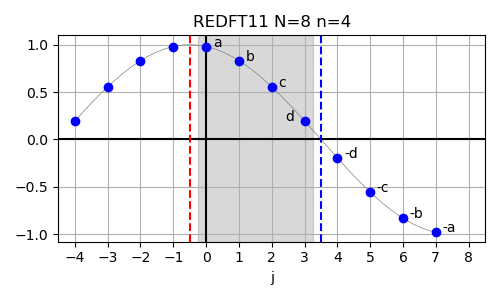
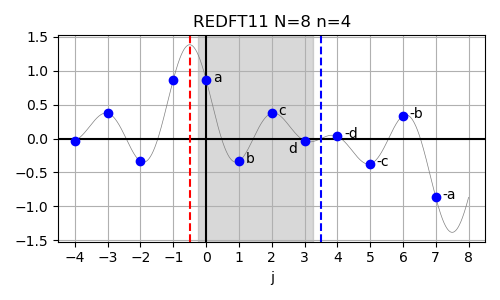
REDFTxx example plots refined

diff --git a/img/plot_1d_redft_examples.py b/img/plot_1d_redft_examples.py
@@ -41,6 +41,15 @@ def redft01(arr):
             out[k] += 2.0 * arr[j] * np.cos(np.pi*j*(k+0.5)/n)
     return out
 
+# compute the REDFT11 as defined in the FFTW reference manual
+def redft11(arr):
+    n = len(arr)
+    out = np.zeros([n])
+    for k in range(n):
+        for j in range(n):
+            out[k] += 2.0 * arr[j] * np.cos(np.pi*(j+0.5)*(k+0.5)/n)
+    return out
+
 # evaluate the REDFT00 at all points given in x
 def eval_redft00(arr, x):
     n = len(arr)
@@ -68,6 +77,14 @@ def eval_redft01(arr, x):
         y += 2.0*arr[j]*np.cos(np.pi*j*(x+0.5/n))
     return y
 
+# evaluate the REDFT11 at all points given in x
+def eval_redft11(arr, x):
+    n = len(arr)
+    y = np.zeros_like(x)
+    for j in range(n):
+        y += 2.0*arr[j]*np.cos(np.pi*(j+0.5)*(x+0.5/n))
+    return y
+
 #%% REDFT00 
 
 # input size for REDFT00
@@ -83,7 +100,14 @@ r2r_out = rng.uniform(size=n)
 # compute input of REDFT00 by REDFT00 (the inverse of REDFT00)
 r2r_in = redft00(r2r_out)/n
 
-# extend to equivalent DFT size
+# extend to left for highlighting symmetry at start of array
+left_in_x = np.arange(-n, 0)
+left_in_y = np.zeros([n])
+for i in range(n):
+    # even symmetry around 0
+    left_in_y[i] = r2r_in[-i]
+
+# extend to equivalent DFT size to highlight symmetry at end of array
 full_in_x = np.arange(n, N)
 full_in_y = np.zeros([N-n])
 for i in range(N-n):
@@ -115,6 +139,8 @@ plt.plot(r2r_in, 'bo')
 for i in range(n):
     plt.text(i+0.2, r2r_in[i]-0.03, chr(ord("a")+i))
 
+plt.plot(left_in_x, left_in_y, 'bo')
+
 # plot data extending REDFT00 to full DFT
 plt.plot(full_in_x, full_in_y, 'bo')
 
@@ -144,7 +170,14 @@ r2r_out = rng.uniform(size=n)
 # compute input of REDFT10 by using REDFT01 (the inverse of REDFT10)
 r2r_in = redft01(r2r_out)/n
 
-# extend to equivalent DFT size
+# extend to left for highlighting symmetry at start of array
+left_in_x = np.arange(-n, 0)
+left_in_y = np.zeros([n])
+for i in range(n):
+    # even symmetry around -0.5
+    left_in_y[i] = r2r_in[-i-1]
+
+# extend to equivalent DFT size for highlighting symmetry at end of array
 full_in_x = np.arange(n, N)
 full_in_y = np.zeros([N-n])
 for i in range(N-n):
@@ -177,6 +210,8 @@ for i in range(n-1):
     plt.text(i+0.2, r2r_in[i]-0.03, chr(ord("a")+i))
 plt.text(n-1-0.6, r2r_in[n-1]-0.03, chr(ord("a")+n-1))
 
+plt.plot(left_in_x, left_in_y, 'bo')
+
 plt.plot(full_in_x, full_in_y, 'bo')
 
 for i in range(n):
@@ -193,68 +228,148 @@ plt.tight_layout()
 plt.savefig("redft10.png")
 
 #%% REDFT01
+n = 4
 
-# plt.figure(figsize=(5,3))
-# plt.plot(t_ref*N, y_ref_2, '-', color='gray', linewidth=0.5)
-# plt.axhline(0, ls='-', color='k')
-# plt.axvline(0, ls='-', color='k')
+# logical size of equivalent DFT (for REDFT01)
+N = 2*n
 
-# # symmetry lines
-# plt.axvline(0, ls='--', color='r')
-# plt.axvline(n, ls='--', color='b')
+# random Fourier coefficients
+rng = default_rng(seed=41)
+r2r_out = rng.uniform(size=n)
 
-# # highlight array contents
-# plt.axvspan(0-0.25, (n-1)+0.25, alpha=0.3, color='gray')
+# compute input of REDFT01 by using REDFT10 (the inverse of REDFT01)
+r2r_in = redft10(r2r_out)/n
 
-# plt.plot(t, y2, 'bo')
+# extend to left for highlighting symmetry at start of array
+left_in_x = np.arange(-n, 0)
+left_in_y = np.zeros([n])
+for i in range(1,n):
+    # even symmetry around 0
+    left_in_y[-i] = r2r_in[i]
 
-# for i in range(N):
-#     if i>n:
-#         plt.text(t[int(i+N/2)]+0.2, y2[int(i+N/2)], "-"+chr(ord("a")+(N-i)))
-#     elif i<n:
-#         plt.text(t[int(i+N/2)]+0.2, y2[int(i+N/2)], chr(ord("a")+i))
+# extend to equivalent DFT size for highlighting symmetry at end of array
+full_in_x = np.arange(n, N)
+full_in_y = np.zeros([N-n])
+for i in range(1,N-n):
+    # odd symmetry around n
+    full_in_y[i] = -r2r_in[-i]
 
-# # only integer xaxis ticks
-# plt.gca().xaxis.set_major_locator(MaxNLocator(steps=(1,10), integer=True))
-# plt.xlim((-4.5, 8.5))
+# sample "inputs" at finer intervals
+nFine = 1024
+x = np.linspace(-n, N, nFine)
+y = eval_redft10(r2r_out, x/n)/n
 
-# plt.grid(True)
-# plt.xlabel("j")
-# plt.title("REDFT01 N=%d n=%d"%(N, n))
-# plt.tight_layout()
-# plt.savefig("redft01.png")
+plt.figure(figsize=(5,3))
+
+plt.plot(x, y, '-', color='gray', linewidth=0.5)
+
+plt.axhline(0, ls='-', color='k')
+plt.axvline(0, ls='-', color='k')
+
+# symmetry lines
+plt.axvline(0, ls='--', color='r')
+plt.axvline(n, ls='--', color='b')
+
+# highlight array contents
+plt.axvspan(0-0.25, (n-1)+0.25, alpha=0.3, color='gray')
+
+plt.plot(r2r_in, 'bo')
+
+# label individual points
+i=0
+plt.text(i+0.2, r2r_in[i]-0.03, chr(ord("a")+i))
+for i in range(1,n):
+    plt.text(i-0.5, r2r_in[i]-0.03, chr(ord("a")+i))
+
+plt.plot(left_in_x, left_in_y, 'bo')
+
+plt.plot(full_in_x, full_in_y, 'bo')
+
+plt.text(full_in_x[0]+0.2, full_in_y[0]+0.04, "0")
+for i in range(1,n):
+    plt.text(full_in_x[i]+0.2, full_in_y[i]-0.03, "-"+chr(ord("a")+(n-i)))
+
+# only integer xaxis ticks
+plt.gca().xaxis.set_major_locator(MaxNLocator(steps=(1,10), integer=True))
+plt.xlim((-4.5, 8.5))
+
+plt.grid(True)
+plt.xlabel("j")
+plt.title("REDFT01 N=%d n=%d"%(N, n))
+plt.tight_layout()
+plt.savefig("redft01.png")
 
 
 #%% REDFT11
 
-# plt.figure(figsize=(5,3))
-# plt.plot(t_ref[int(n_ref/N/2):-int(n_ref/N/2)]*N-0.5, y_ref_2[int(n_ref/N/2):-int(n_ref/N/2)], '-', color='gray', linewidth=0.5)
-# plt.axhline(0, ls='-', color='k')
-# plt.axvline(0, ls='-', color='k')
+# input size for REDFT11
+n = 4
 
-# # symmetry lines
-# plt.axvline(-0.5, ls='--', color='r')
-# plt.axvline(n-0.5, ls='--', color='b')
+# logical size of equivalent DFT (for REDFT11)
+N = 2*n
 
-# # highlight array contents
-# plt.axvspan(0-0.25, (n-1)+0.25, alpha=0.3, color='gray')
+# random Fourier coefficients
+rng = default_rng(seed=42)
+r2r_out = rng.uniform(size=n)
 
-# plt.plot(t, y3, 'bo')
+# compute input of REDFT11 by REDFT11 (the inverse of REDFT11)
+r2r_in = redft11(r2r_out)/n
 
-# for i in range(N):
-#     if i==n-1:
-#         plt.text(t[int(i+N/2)]-0.6, y3[int(i+N/2)], chr(ord("a")+i))
-#     elif i>=n:
-#         plt.text(t[int(i+N/2)]+0.2, y3[int(i+N/2)], "-"+chr(ord("a")+(N-i-1)))
-#     else:
-#         plt.text(t[int(i+N/2)]+0.2, y3[int(i+N/2)], chr(ord("a")+i))
+# extend to left for highlighting symmetry at start of array
+left_in_x = np.arange(-n, 0)
+left_in_y = np.zeros([n])
+for i in range(n):
+    # even symmetry around -0.5
+    left_in_y[i] = r2r_in[-i-1]
 
-# # only integer xaxis ticks
-# plt.gca().xaxis.set_major_locator(MaxNLocator(steps=(1,10), integer=True))
-# plt.xlim((-4.5, 8.5))
+# extend to equivalent DFT size to highlight symmetry at end of array
+full_in_x = np.arange(n, N)
+full_in_y = np.zeros([N-n])
+for i in range(N-n):
+    # odd symmetry around n-0.5
+    full_in_y[i] = -r2r_in[-i-1]
 
-# plt.grid(True)
-# plt.xlabel("j")
-# plt.title("REDFT11 N=%d n=%d"%(N, n))
-# plt.tight_layout()
-# plt.savefig("redft11.png")
+# sample at finer intervals
+nFine = 1024
+x = np.linspace(-n, N, nFine)
+y = eval_redft11(r2r_out, x/n)/n
+
+plt.figure(figsize=(5,3))
+
+plt.plot(x, y, '-', color='gray', linewidth=0.5)
+plt.axhline(0, ls='-', color='k')
+plt.axvline(0, ls='-', color='k')
+
+# symmetry lines
+plt.axvline(-0.5, ls='--', color='r')
+plt.axvline(n-0.5, ls='--', color='b')
+
+# highlight array contents
+plt.axvspan(0-0.25, (n-1)+0.25, alpha=0.3, color='gray')
+
+# plot actual REDFT11 input
+plt.plot(r2r_in, 'bo')
+
+# label individual points
+for i in range(n-1):
+    plt.text(i+0.2, r2r_in[i]-0.03, chr(ord("a")+i))
+i=n-1
+plt.text(i-0.5, r2r_in[i]-0.18, chr(ord("a")+i))
+
+plt.plot(left_in_x, left_in_y, 'bo')
+
+# plot data extending REDFT11 to full DFT
+plt.plot(full_in_x, full_in_y, 'bo')
+
+for i in range(N-n):
+    plt.text(full_in_x[i]+0.2, full_in_y[i]-0.03, "-"+chr(ord("a")+(n-1-i)))
+
+# only integer xaxis ticks at intervals of 1
+plt.gca().xaxis.set_major_locator(MaxNLocator(steps=(1,10), integer=True))
+plt.xlim((-4.5, 8.5))
+
+plt.grid(True)
+plt.xlabel("j")
+plt.title("REDFT11 N=%d n=%d"%(N, n))
+plt.tight_layout()
+plt.savefig("redft11.png")
